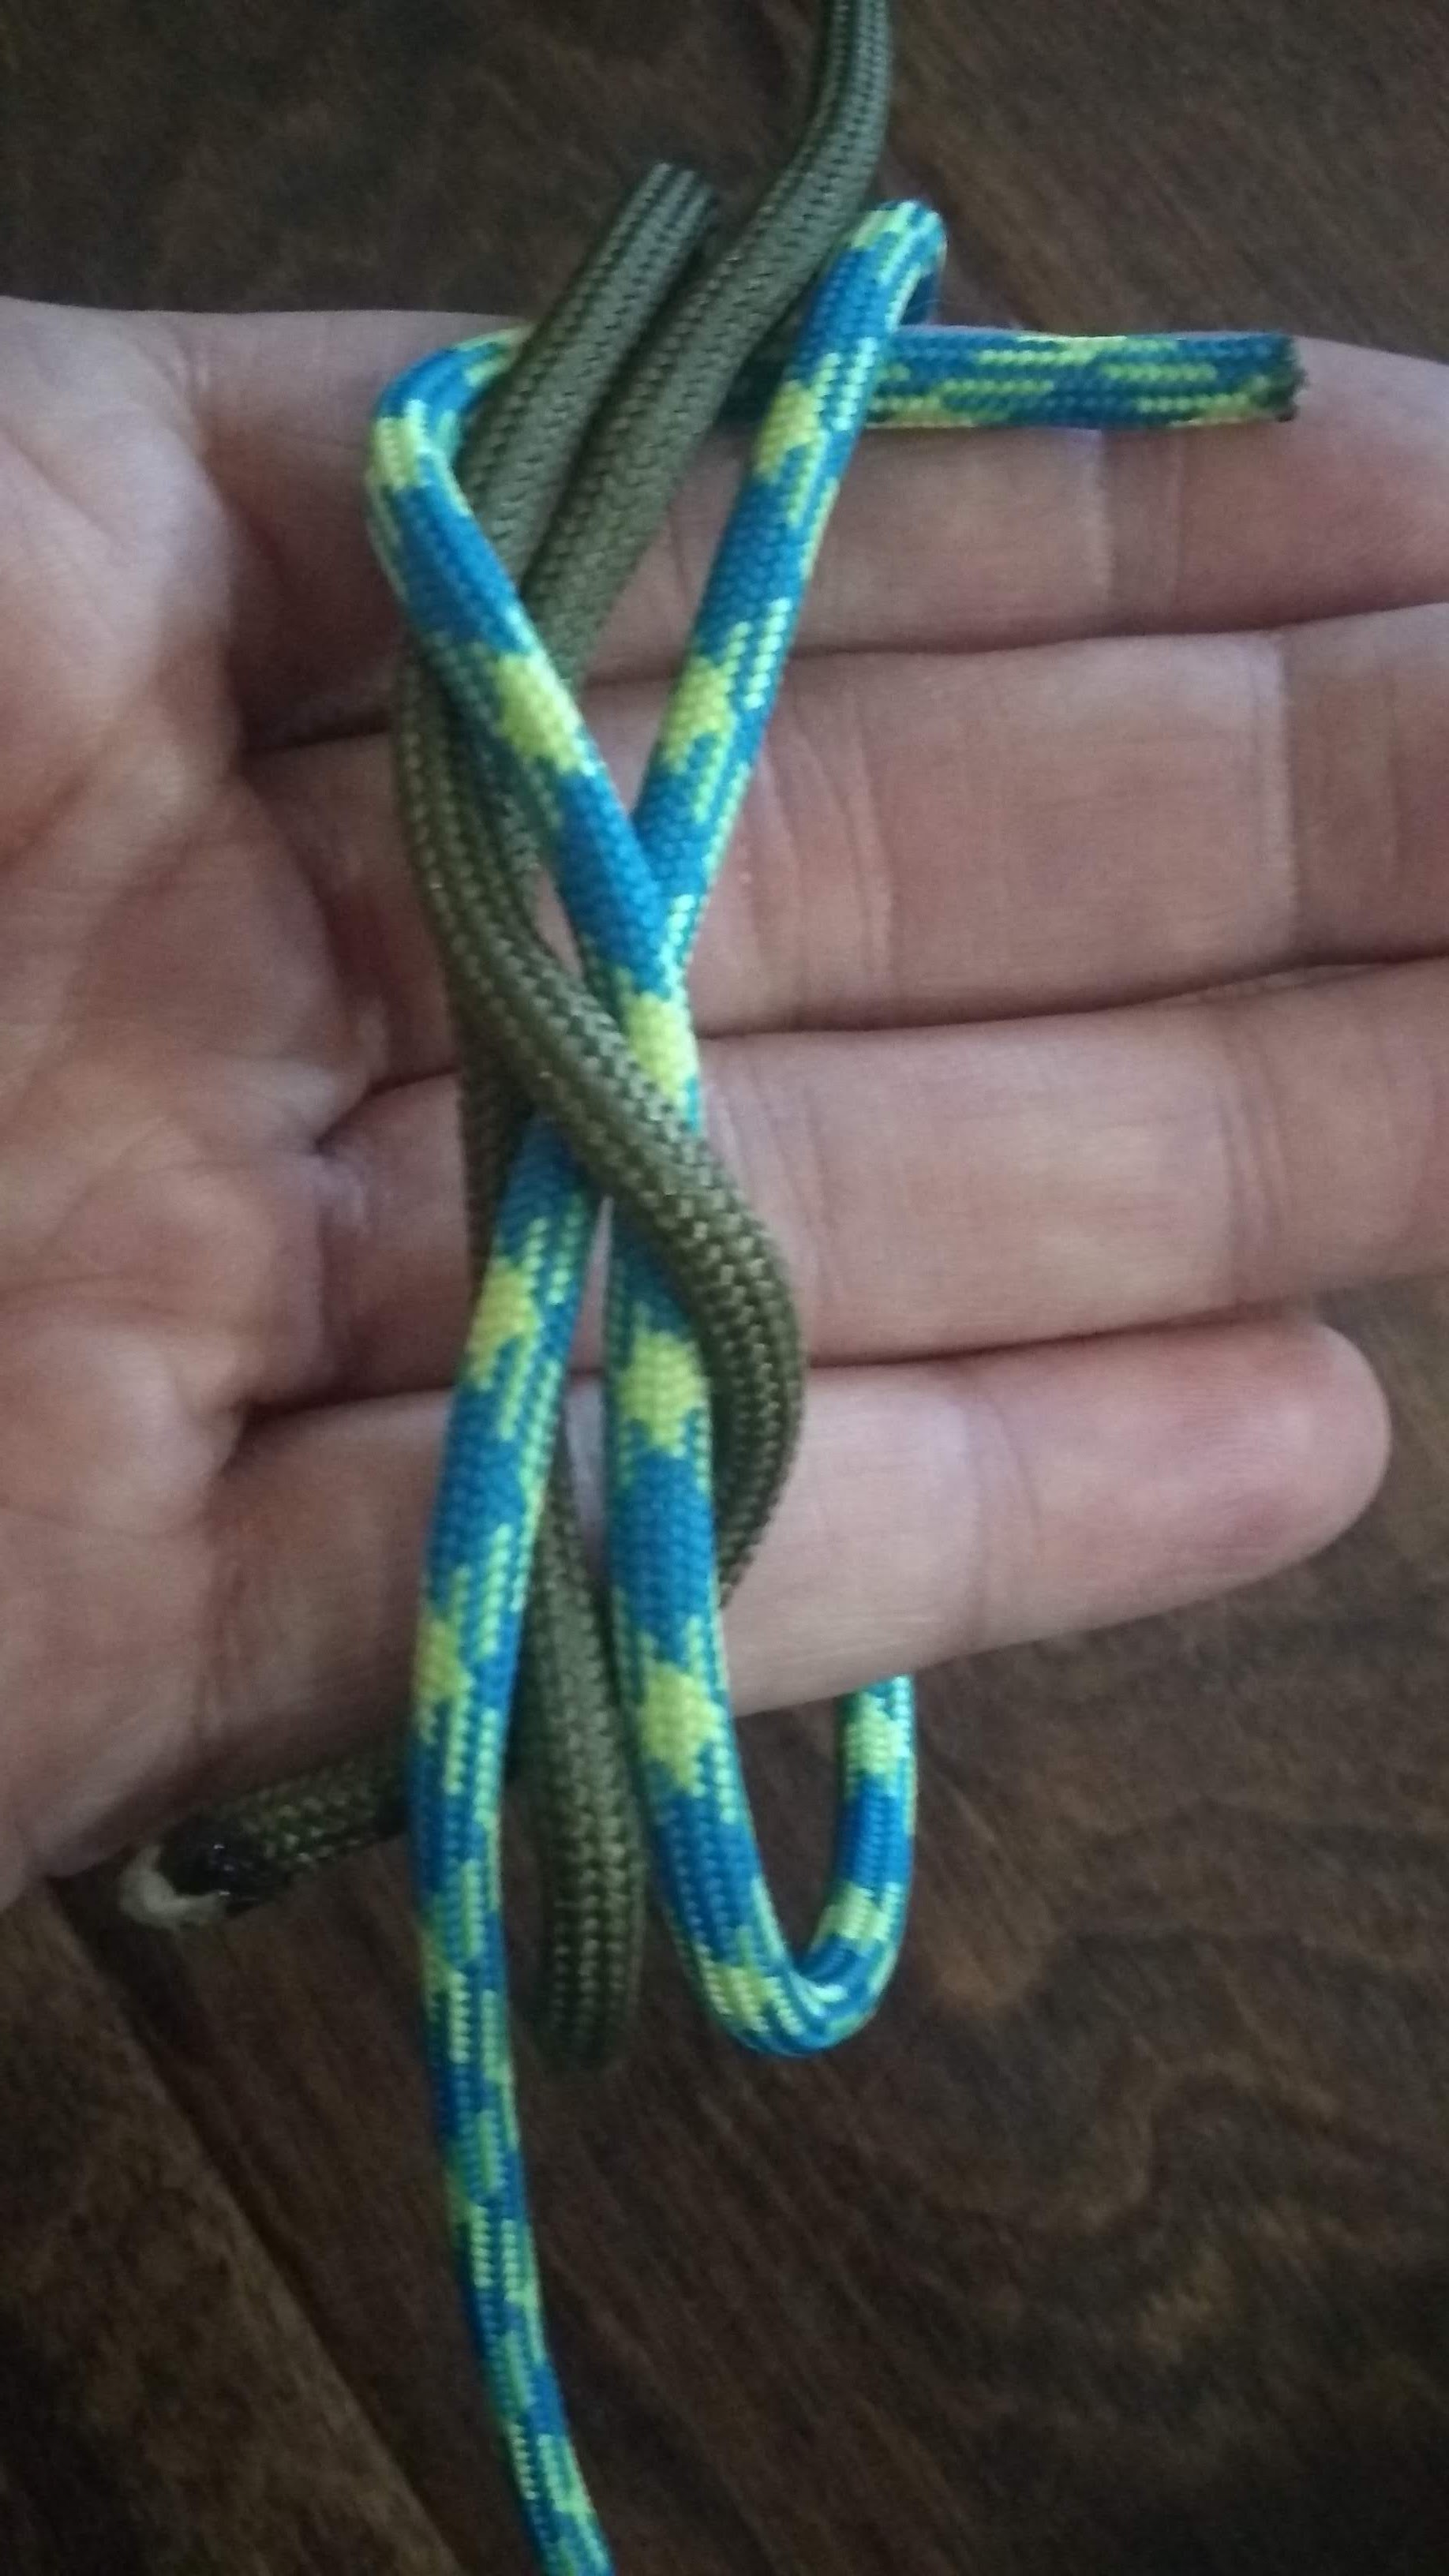
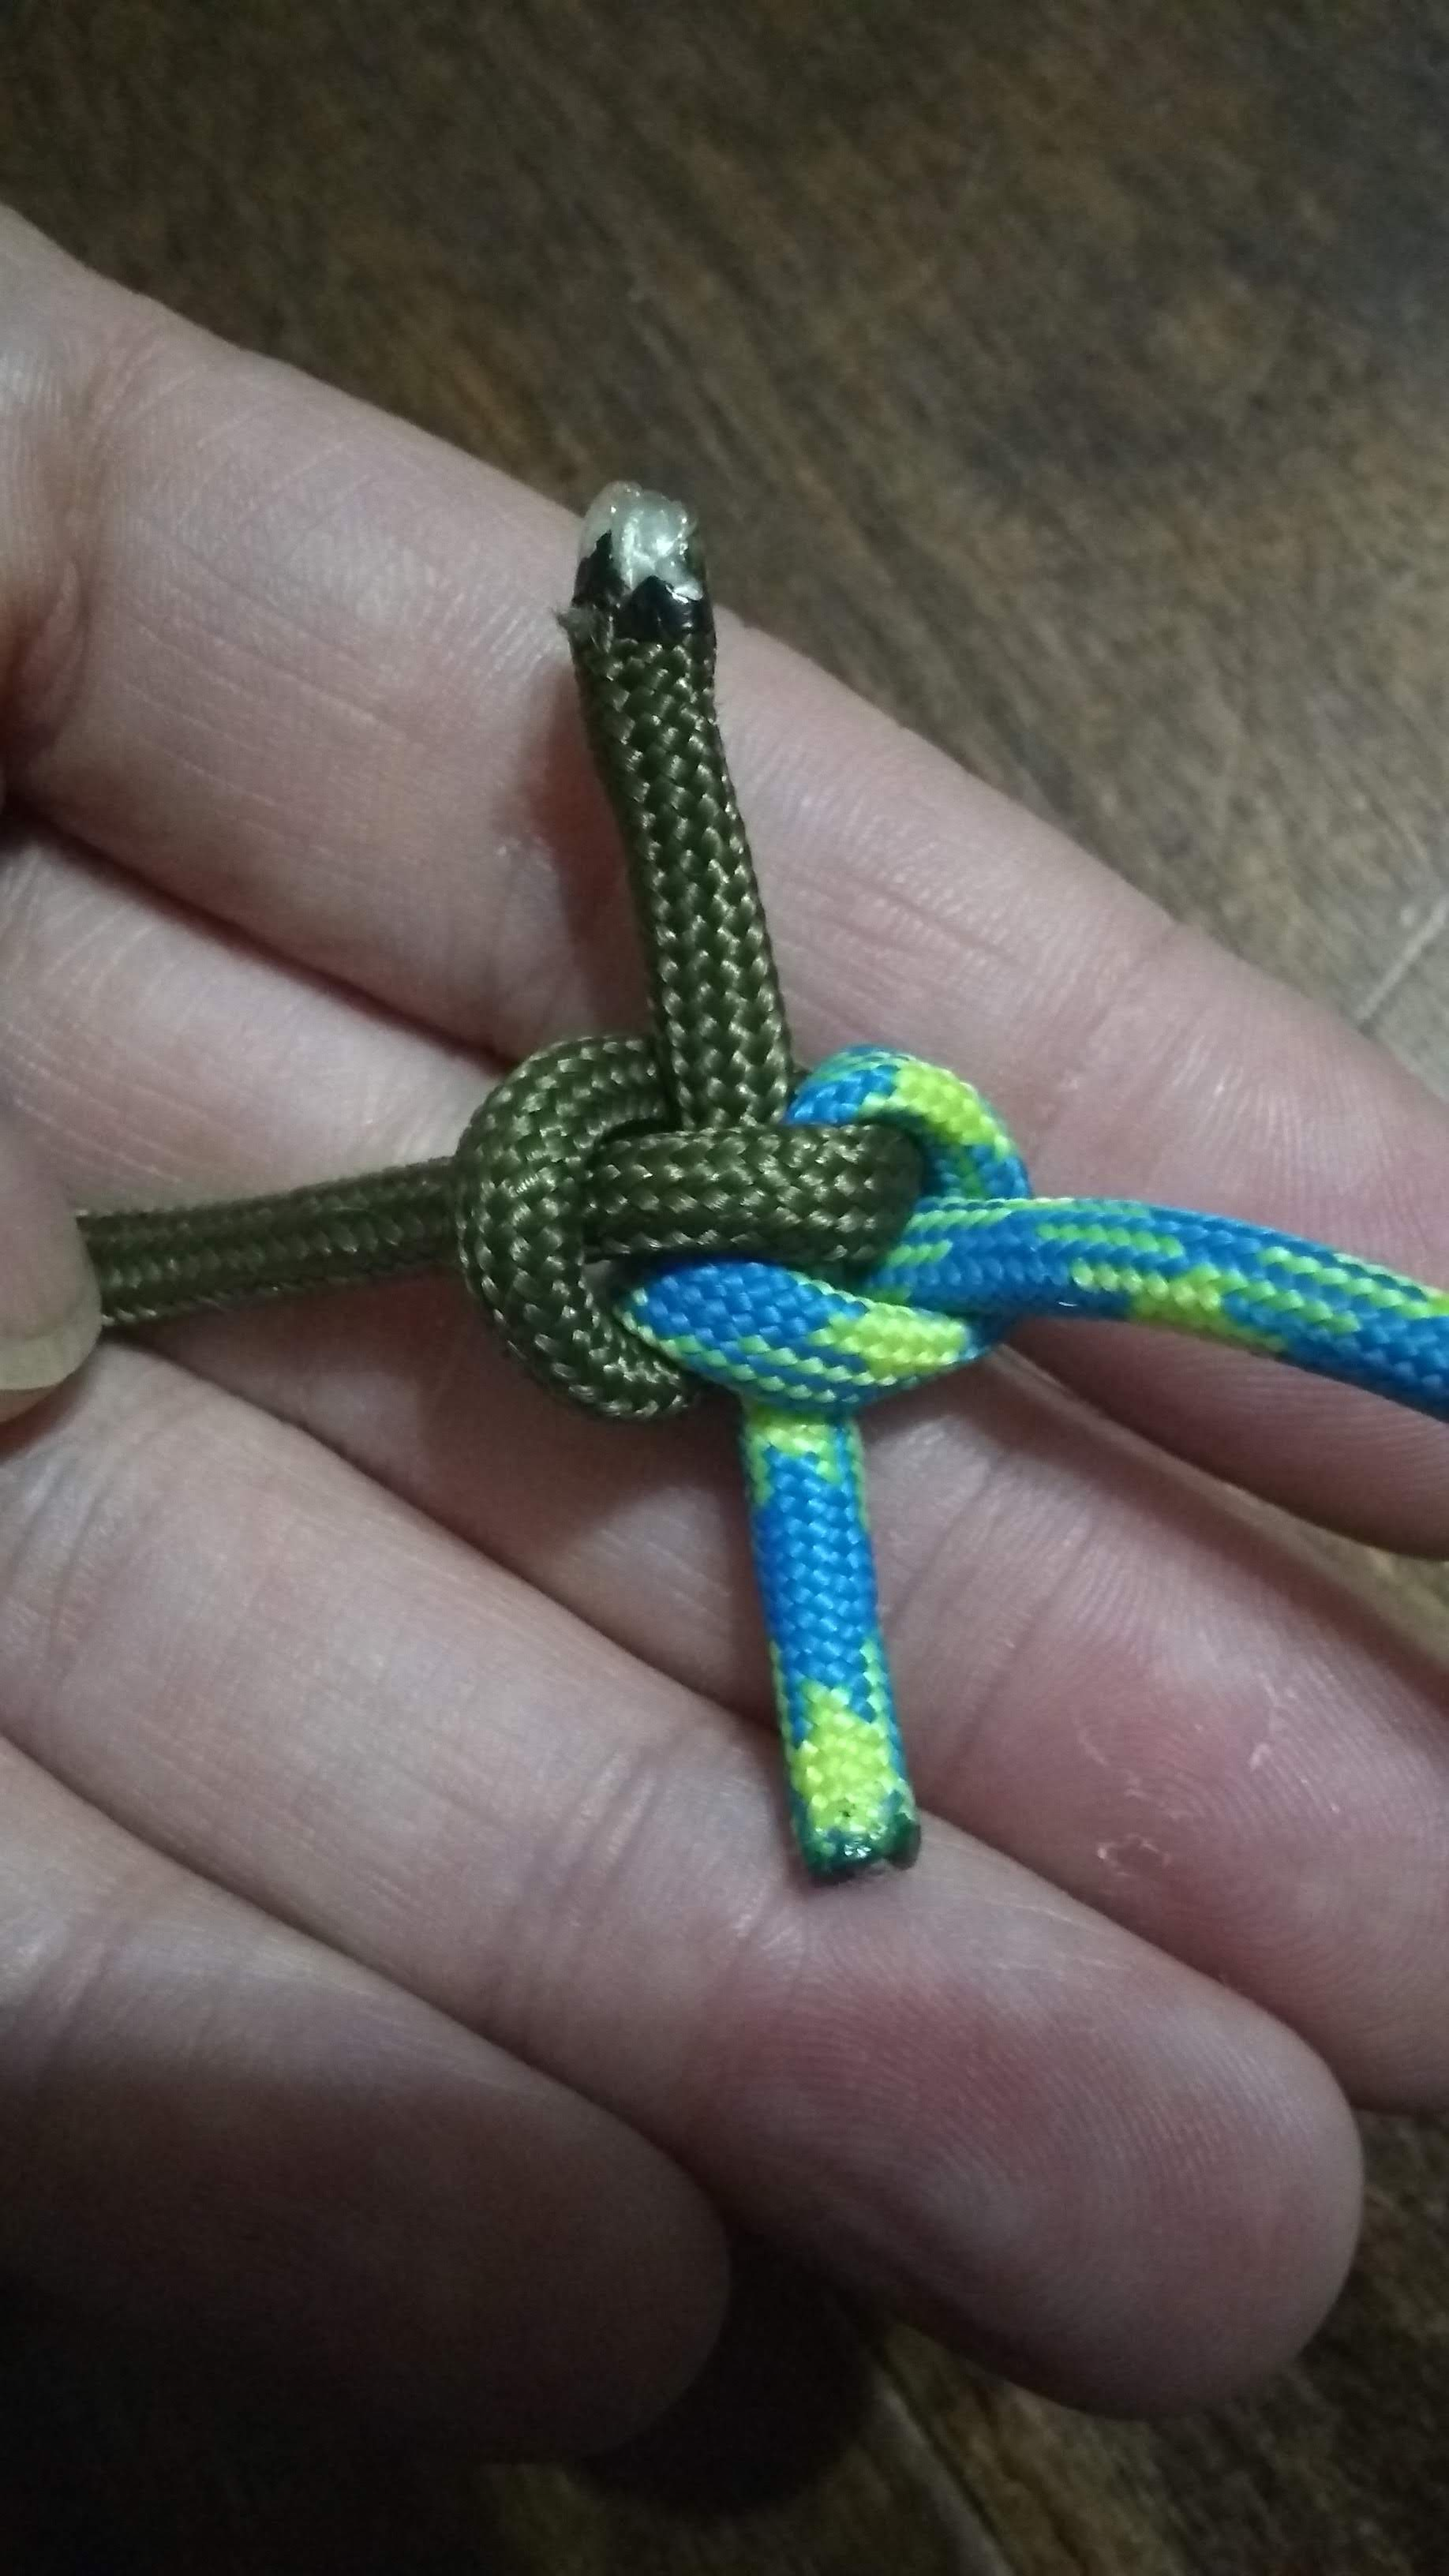
Corrected zeppelin bend

diff --git a/docs/_posts/2020-07-20-tying-the-zeppelin-knots.md b/docs/_posts/2020-07-20-tying-the-zeppelin-knots.md
@@ -16,25 +16,20 @@ This bend won't slip or shake loose, ever. It reduces the breaking strength of
 a rope by only 25%. And it remains easy to untie after being subjected to an
 extreme load, although not _while_ loaded. To tie it:
 
-1. Near the end of the first rope, make a turn around your hand.
+1. Take one end of each rope, and drape them over your index finger as illustrated.
 
-2. Do the same with the second rope in the opposite direction, positioning the
-rope ends at opposite ends of your hand.
+2. Take the end of the left rope _under_ its standing part, _over and under_ the end of the right rope, then back under itself to form an overhand knot around both ropes.
 
-3. Pass the end of one rope over the other rope, then through both ropes where
-your hand is.
+3. Take the end of the right rope around _behind_ the index finger and _under both ropes to form another overhand knot around them.
 
-4. Do the same with the other rope.
-
-5. Pull the standing parts, then pull the ends. Repeat till tight.
+4. Pull the standing parts tight, then the ends, then the standing parts again.
 
 <div class="gallery" markdown="1">
 ![Step 1][bend-1-photo]
 ![Step 2][bend-2-photo]
 ![Step 3][bend-3-photo]
 ![Step 4][bend-4-photo]
-![Step 5][bend-5-photo]
-*Zeppelin bend in five steps*
+*Zeppelin bend in four steps*
 </div>
 
 For contrast, consider that the sheetbend reduces a rope's breaking strength by
@@ -79,7 +74,6 @@ sheetbend.
 [bend-2-photo]: {{ '/images/zeppelin-bend-step2.jpg' | prepend: site.url }}
 [bend-3-photo]: {{ '/images/zeppelin-bend-step3.jpg' | prepend: site.url }}
 [bend-4-photo]: {{ '/images/zeppelin-bend-step4.jpg' | prepend: site.url }}
-[bend-5-photo]: {{ '/images/zeppelin-bend-step5.jpg' | prepend: site.url }}
 [loop-1-photo]: {{ '/images/zeppelin-loop-step1.jpg' | prepend: site.url }}
 [loop-2-photo]: {{ '/images/zeppelin-loop-step2.jpg' | prepend: site.url }}
 [loop-3-photo]: {{ '/images/zeppelin-loop-step3.jpg' | prepend: site.url }}
